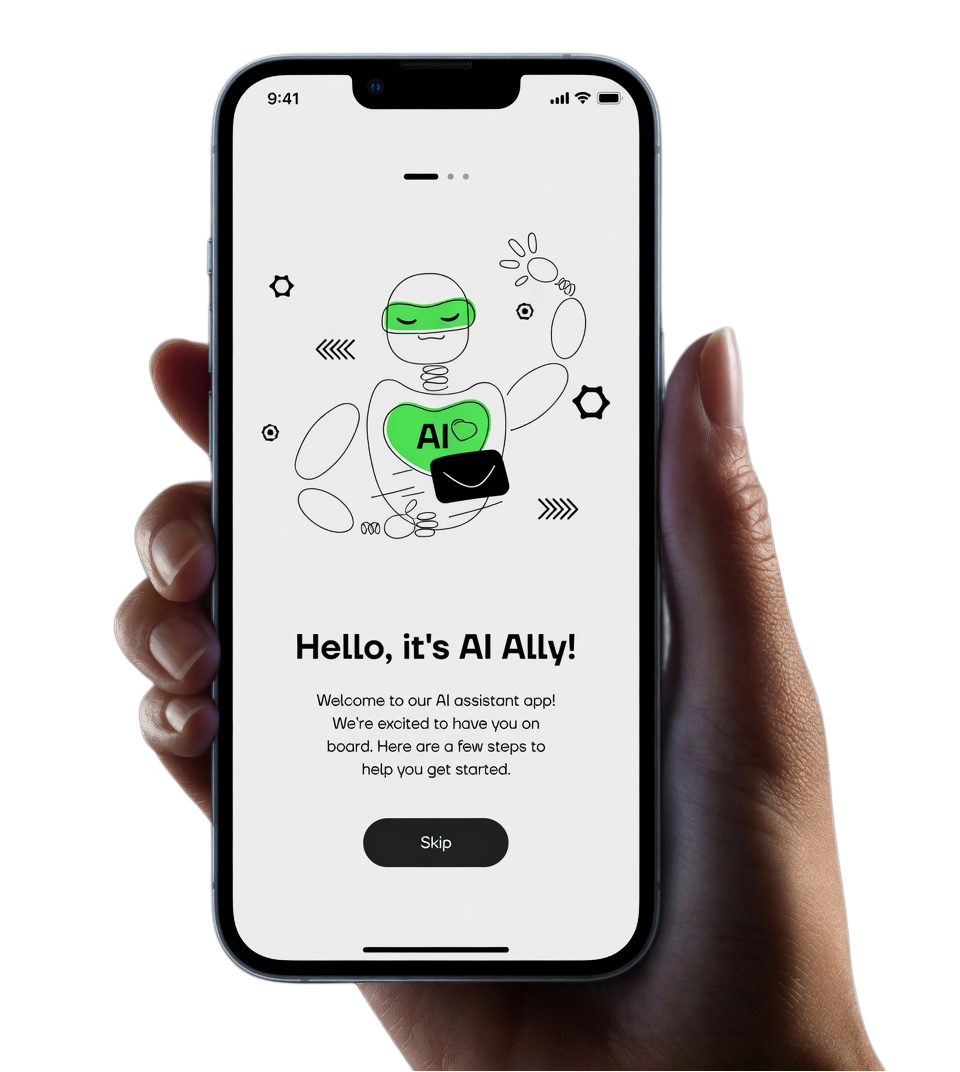
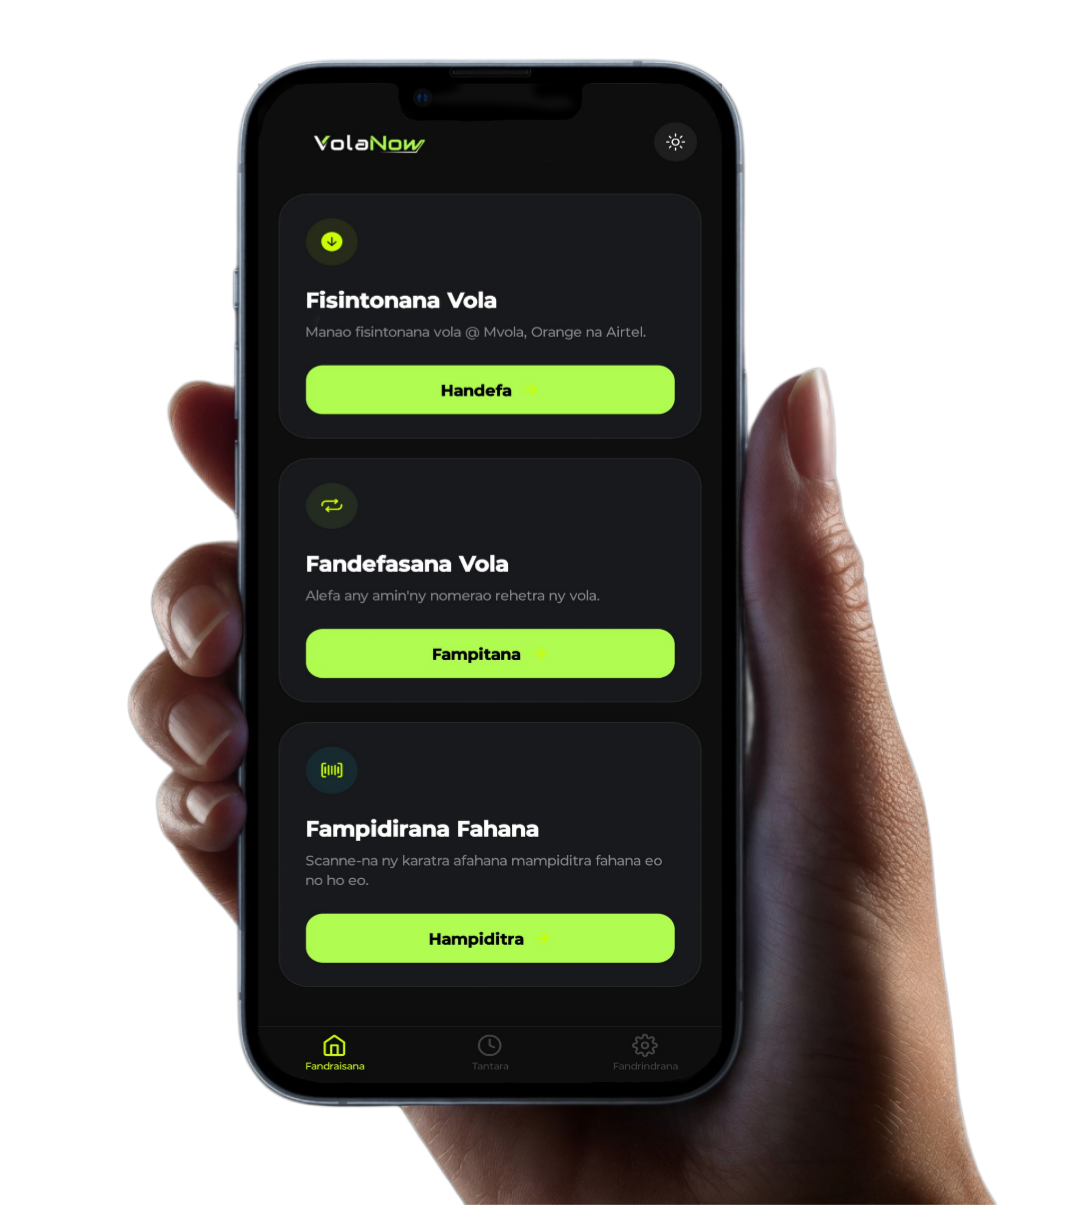
maj photo

diff --git a/src/components/Header.tsx b/src/components/Header.tsx
@@ -55,7 +55,7 @@ export default function Header() {
         </nav>
 
         <button className="hidden lg:block bg-[#B0FC51] text-[#181818] font-semibold text-base px-4 py-2 rounded-full hover:bg-[#9ae045] transition-all duration-300 hover:scale-105 shrink-0">
-          Get Started
+          Obtenir l'APK
         </button>
 
         <button
@@ -93,7 +93,7 @@ export default function Header() {
               </a>
             ))}
             <button className="bg-[#B0FC51] text-[#181818] font-semibold px-5 py-2.5 rounded-full hover:bg-[#9ae045] transition-colors w-full mt-2">
-              Get Started
+              Obtenir l'APK
             </button>
           </nav>
         </div>

diff --git a/src/components/Hero.tsx b/src/components/Hero.tsx
@@ -37,9 +37,9 @@
                     Obtenir l'APK
                     <span>→</span>
                   </button>
-                  <button className="text-white font-medium hover:underline text-sm md:text-base">
+                  {/* <button className="text-white font-medium hover:underline text-sm md:text-base">
                     More
-                  </button>
+                  </button> */}
                 </div>
 
                 {/* <div className={`mt-8 md:mt-16 flex gap-8 md:gap-12 transition-all duration-1000 delay-500 ${loaded ? "opacity-100 translate-y-0" : "opacity-0 translate-y-10"}`}>